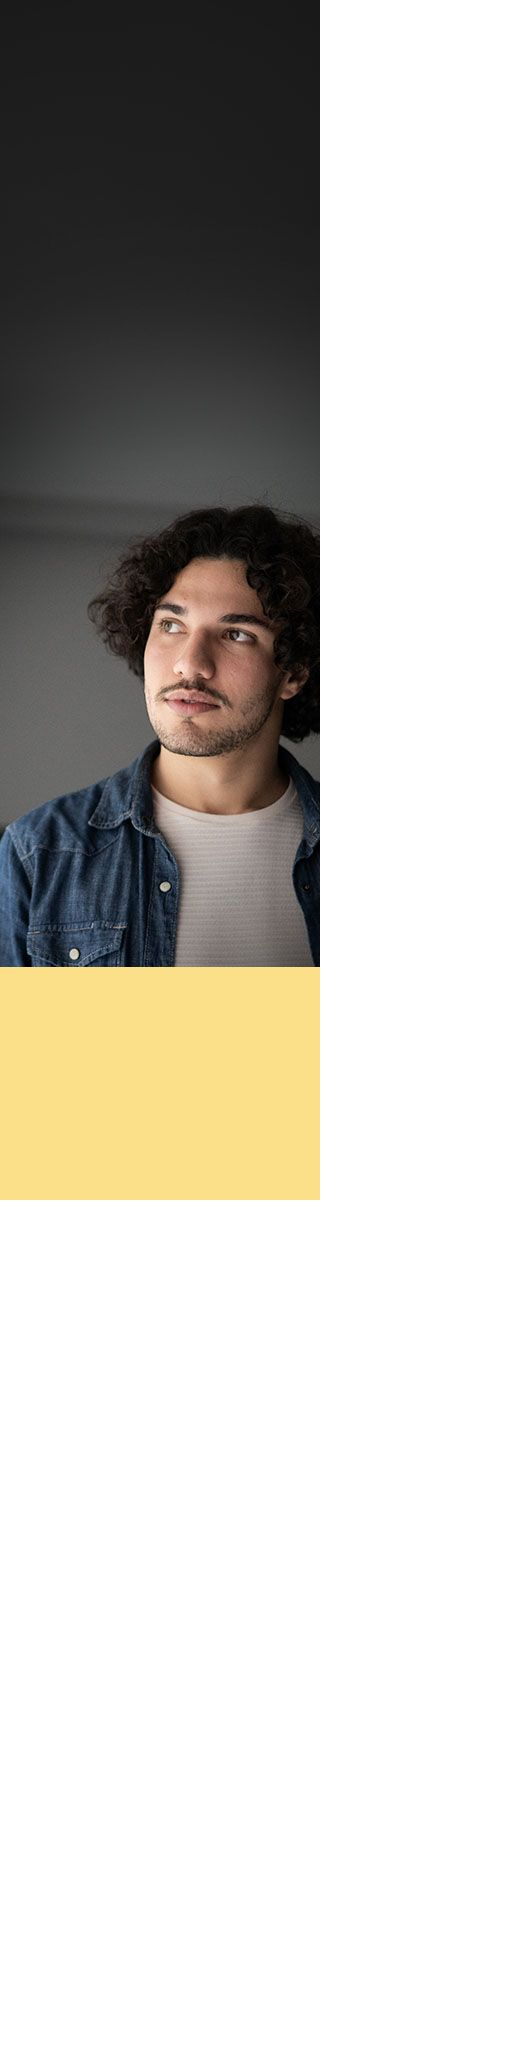
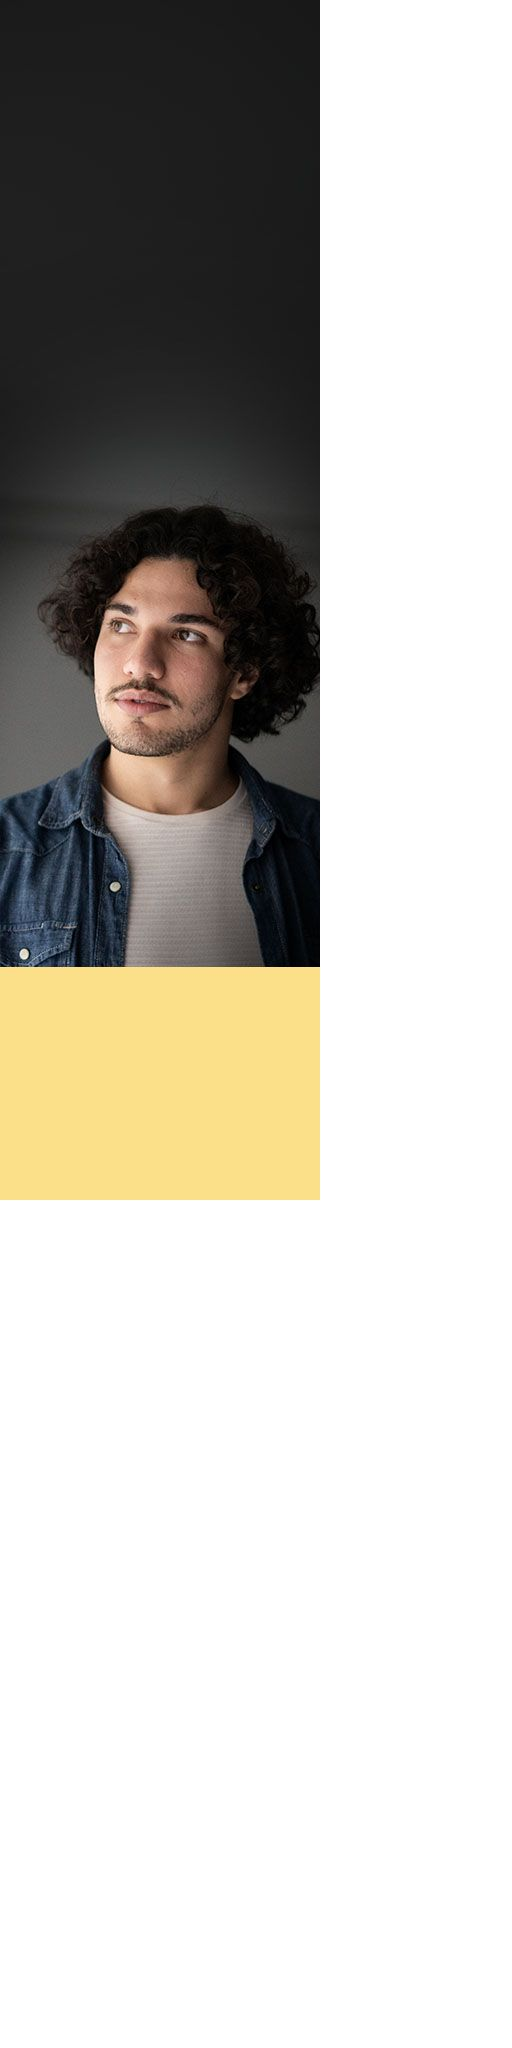
Add files via upload

Changed region(s): [[0.0, 0.1875, 0.625, 0.5]]

diff --git a/lived-spn/300x600/HCA-Lived-spn-300x600.js b/lived-spn/300x600/HCA-Lived-spn-300x600.js
@@ -140,75 +140,75 @@ if (reversed == null) { reversed = false; }
 	// Layer_2
 	this.shape = new cjs.Shape();
 	this.shape.graphics.f("#FFFFFF").s().p("AgGAHIAAgNIANAAIAAANg");
-	this.shape.setTransform(68.6,42.7);
+	this.shape.setTransform(68.6,58.2);
 
 	this.shape_1 = new cjs.Shape();
 	this.shape_1.graphics.f("#FFFFFF").s().p("AgFAvIAAhdIALAAIAABdg");
-	this.shape_1.setTransform(65.65,38.65);
+	this.shape_1.setTransform(65.65,54.15);
 
 	this.shape_2 = new cjs.Shape();
 	this.shape_2.graphics.f("#FFFFFF").s().p("AgOAgQgGgDgDgFQgDgEAAgGQAAgHAEgEQAEgDAIgCQAJgCAOAAIADAAIAAgEQAAgJgDgDQgDgEgIAAQgKAAgMAHIgDgIQAFgEAHgCQAHgCAGAAQANAAAGAGQAGAHAAANIAAAoIgLAAIAAgLQgCAGgGADQgFADgGAAQgGAAgFgCgAgDADQgGABgDACQgDADAAAEQAAAGAEADQAEAEAGAAQAHAAAFgGQAFgFAAgJIAAgEIgCAAIgRABg");
-	this.shape_2.setTransform(60.375,40.075);
+	this.shape_2.setTransform(60.375,55.575);
 
 	this.shape_3 = new cjs.Shape();
 	this.shape_3.graphics.f("#FFFFFF").s().p("AgVAbQgGgHAAgNIAAgnIALAAIAAAnQAAAJAEAEQADAEAIAAQAHAAAGgGQAFgFAAgJIAAgkIALAAIAABAIgLAAIAAgLQgDAGgGADQgFADgGAAQgMAAgGgGg");
-	this.shape_3.setTransform(53.475,40.175);
+	this.shape_3.setTransform(53.475,55.675);
 
 	this.shape_4 = new cjs.Shape();
 	this.shape_4.graphics.f("#FFFFFF").s().p("AgCAlQgGgGAAgLIAAgiIgNAAIAAgIIANAAIAAgUIAJAAIAAAUIAUAAIAAAIIgUAAIAAAhQAAAPAPAAIAGAAIAAAJIgHAAQgMAAgFgGg");
-	this.shape_4.setTransform(47.05,39.175);
+	this.shape_4.setTransform(47.05,54.675);
 
 	this.shape_5 = new cjs.Shape();
 	this.shape_5.graphics.f("#FFFFFF").s().p("AgMAeQgHgEgEgIQgEgHAAgLQAAgJAEgIQAEgHAIgFQAHgEAJAAQAGAAAHACQAGADAEAEIgEAIQgJgIgKAAQgJAAgGAHQgFAGAAALQAAAMAFAHQAGAGAJAAQAKAAAJgHIAEAIQgEAEgHACQgGACgHAAQgJAAgHgEg");
-	this.shape_5.setTransform(41.225,40.075);
+	this.shape_5.setTransform(41.225,55.575);
 
 	this.shape_6 = new cjs.Shape();
 	this.shape_6.graphics.f("#FFFFFF").s().p("AgVAbQgGgHAAgNIAAgnIALAAIAAAnQAAAJAEAEQADAEAIAAQAHAAAGgGQAFgFAAgJIAAgkIALAAIAABAIgLAAIAAgLQgDAGgGADQgFADgGAAQgMAAgGgGg");
-	this.shape_6.setTransform(34.125,40.175);
+	this.shape_6.setTransform(34.125,55.675);
 
 	this.shape_7 = new cjs.Shape();
-	this.shape_7.graphics.f("#FFFFFF").s().p("AgQArQgHgDgDgJQgEgHAAgLQAAgJAEgIQADgHAHgEQAHgEAIgBQAHABAGADQAFADADAHIAAgpIALAAIAABeIgLAAIAAgMQgDAGgFADQgGAEgHAAQgJAAgGgFgAgOgEQgFAGAAALQAAAMAFAHQAGAHAIAAQAKAAAFgHQAFgGAAgMQAAgMgFgGQgFgGgKAAQgIAAgGAGg");
-	this.shape_7.setTransform(26.575,38.7);
+	this.shape_7.graphics.f("#FFFFFF").s().p("AgQAsQgHgFgDgIQgEgHAAgLQAAgKAEgHQADgHAHgEQAHgFAIAAQAHAAAGAEQAFAEADAGIAAgpIALAAIAABeIgLAAIAAgMQgDAGgFAEQgGADgHAAQgJAAgGgEgAgOgEQgFAGAAALQAAAMAFAHQAGAHAIAAQAKAAAFgHQAFgGAAgMQAAgMgFgGQgFgGgKAAQgIAAgGAGg");
+	this.shape_7.setTransform(26.575,54.2);
 
 	this.shape_8 = new cjs.Shape();
 	this.shape_8.graphics.f("#FFFFFF").s().p("AARAiIAAgoQAAgJgDgEQgEgEgHAAQgJAAgFAFQgGAGABAJIAAAlIgMAAIAAhBIAMAAIAAALQACgGAHgDQAFgEAGAAQAZAAAAAaIAAApg");
-	this.shape_8.setTransform(19.35,40.025);
+	this.shape_8.setTransform(19.35,55.525);
 
 	this.shape_9 = new cjs.Shape();
 	this.shape_9.graphics.f("#FFFFFF").s().p("AgPAeQgHgEgEgIQgEgIAAgKQAAgJAEgIQAEgIAHgEQAHgEAIAAQAJAAAIAEQAHAEAEAIQADAIAAAJQAAAKgDAIQgEAIgHAEQgIAEgJAAQgIAAgHgEgAgOgRQgFAGAAALQAAAMAFAHQAFAGAJAAQAKAAAFgGQAFgHAAgMQAAgLgFgGQgFgHgKAAQgIAAgGAHg");
-	this.shape_9.setTransform(12.025,40.075);
+	this.shape_9.setTransform(12.025,55.575);
 
 	this.shape_10 = new cjs.Shape();
 	this.shape_10.graphics.f("#FFFFFF").s().p("AgMAeQgHgEgEgIQgEgHAAgLQAAgJAEgIQAEgHAIgFQAHgEAJAAQAGAAAHACQAGADAEAEIgEAIQgJgIgKAAQgJAAgGAHQgFAGAAALQAAAMAFAHQAGAGAJAAQAKAAAJgHIAEAIQgEAEgHACQgGACgHAAQgJAAgHgEg");
-	this.shape_10.setTransform(5.375,40.075);
+	this.shape_10.setTransform(5.375,55.575);
 
 	this.shape_11 = new cjs.Shape();
-	this.shape_11.graphics.f("#FFFFFF").s().p("AgQArQgHgEgDgHQgEgIAAgKQAAgLAEgGQADgIAHgEQAHgEAIgBQAHABAGADQAFADADAGIAAgoIALAAIAABeIgLAAIAAgMQgDAGgFADQgGAEgHAAQgJAAgGgFgAgOgDQgFAFAAAMQAAAMAFAGQAGAHAIAAQAKAAAFgGQAFgHAAgMQAAgMgFgFQgFgHgKAAQgIAAgGAHg");
-	this.shape_11.setTransform(122.975,23.2);
+	this.shape_11.graphics.f("#FFFFFF").s().p("AgQArQgHgDgDgJQgEgHAAgLQAAgJAEgIQADgHAHgEQAHgEAIgBQAHABAGADQAFADADAHIAAgpIALAAIAABeIgLAAIAAgMQgDAGgFADQgGAEgHAAQgJAAgGgFgAgOgEQgFAGAAALQAAAMAFAHQAGAHAIAAQAKAAAFgHQAFgGAAgMQAAgMgFgGQgFgGgKAAQgIAAgGAGg");
+	this.shape_11.setTransform(46.775,38.7);
 
 	this.shape_12 = new cjs.Shape();
 	this.shape_12.graphics.f("#FFFFFF").s().p("AgVAbQgGgHAAgNIAAgnIALAAIAAAnQAAAJAEAEQADAEAIAAQAHAAAGgGQAFgFAAgJIAAgkIALAAIAABAIgLAAIAAgLQgDAGgGADQgFADgGAAQgMAAgGgGg");
-	this.shape_12.setTransform(115.675,24.675);
+	this.shape_12.setTransform(39.475,40.175);
 
 	this.shape_13 = new cjs.Shape();
-	this.shape_13.graphics.f("#FFFFFF").s().p("AgEAvIAAheIAKAAIAABeg");
-	this.shape_13.setTransform(110.5,23.15);
+	this.shape_13.graphics.f("#FFFFFF").s().p("AgEAvIAAhdIAJAAIAABdg");
+	this.shape_13.setTransform(34.3,38.65);
 
 	this.shape_14 = new cjs.Shape();
 	this.shape_14.graphics.f("#FFFFFF").s().p("AgOAgQgGgDgDgFQgDgEAAgGQAAgHAEgEQAEgDAIgCQAJgCAOAAIADAAIAAgEQAAgJgDgDQgDgEgIAAQgKAAgMAHIgDgIQAFgEAHgCQAHgCAGAAQANAAAGAGQAGAHAAANIAAAoIgLAAIAAgLQgCAGgGADQgFADgGAAQgGAAgFgCgAgDADQgGABgDACQgDADAAAEQAAAGAEADQAEAEAGAAQAHAAAFgGQAFgFAAgJIAAgEIgCAAIgRABg");
-	this.shape_14.setTransform(105.375,24.575);
+	this.shape_14.setTransform(29.175,40.075);
 
 	this.shape_15 = new cjs.Shape();
 	this.shape_15.graphics.f("#FFFFFF").s().p("AgZAaIADgIQAGAEAFACQAGABAGAAQAHAAAEgCQAEgDAAgEQAAgEgDgCQgDgDgGgBIgKgDQgIgCgEgDQgFgFAAgHQAAgIAHgGQAHgFAKAAQAHAAAGACQAHACAEAFIgEAHQgJgHgLAAQgFAAgEACQgEADAAAFQAAAEACACQACACAGACIAKACQAJACAFAEQAEAEAAAHQAAAJgHAFQgHAFgMAAQgPAAgKgIg");
-	this.shape_15.setTransform(98.975,24.575);
+	this.shape_15.setTransform(22.775,40.075);
 
 	this.shape_16 = new cjs.Shape();
-	this.shape_16.graphics.f("#FFFFFF").s().p("AARAiIAAgoQAAgJgDgEQgEgEgIAAQgHAAgGAFQgFAGgBAJIAAAlIgKAAIAAhBIAKAAIAAALQADgGAGgDQAHgEAGAAQAXAAAAAaIAAApg");
-	this.shape_16.setTransform(89.25,24.525);
+	this.shape_16.graphics.f("#FFFFFF").s().p("AARAiIAAgoQAAgJgDgEQgEgEgHAAQgJAAgFAFQgGAGABAJIAAAlIgMAAIAAhBIAMAAIAAALQACgGAHgDQAFgEAGAAQAZAAAAAaIAAApg");
+	this.shape_16.setTransform(13.05,40.025);
 
 	this.shape_17 = new cjs.Shape();
-	this.shape_17.graphics.f("#FFFFFF").s().p("AgTAZQgJgJAAgQQAAgJADgIQAFgHAGgFQAHgEAJAAQANAAAHAIQAIAJgBAPIAAADIguAAQAAAMAGAFQAFAGAKAAQALAAAKgIIADAIQgEAEgGADQgHACgHAAQgPAAgIgJgAAUgEQAAgKgFgFQgFgGgIAAQgIAAgFAGQgFAFgBAKIAlAAIAAAAg");
-	this.shape_17.setTransform(81.75,24.575);
+	this.shape_17.graphics.f("#FFFFFF").s().p("AgTAZQgKgJABgQQAAgJADgIQAFgHAHgFQAHgEAHAAQAOAAAIAIQAGAJAAAPIAAADIgvAAQABAMAGAFQAGAGAJAAQAMAAAJgIIADAIQgDAEgIADQgGACgHAAQgOAAgJgJgAAUgEQAAgKgFgFQgEgGgJAAQgIAAgFAGQgFAFgBAKIAlAAIAAAAg");
+	this.shape_17.setTransform(5.55,40.075);
 
 	this.shape_18 = new cjs.Shape();
 	this.shape_18.graphics.f("#FFFFFF").s().p("AgZAaIADgIQAGAEAFACQAGABAGAAQAHAAAEgCQAEgDAAgEQAAgEgDgCQgDgDgGgBIgKgDQgIgCgEgDQgFgFAAgHQAAgIAHgGQAHgFAKAAQAHAAAGACQAHACAEAFIgEAHQgJgHgLAAQgFAAgEACQgEADAAAFQAAAEACACQACACAGACIAKACQAJACAFAEQAEAEAAAHQAAAJgHAFQgHAFgMAAQgPAAgKgIg");
@@ -330,7 +330,7 @@ if (reversed == null) { reversed = false; }
 
 	this._renderFirstFrame();
 
-}).prototype = getMCSymbolPrototype(lib.SUBHEAD, new cjs.Rectangle(0,0,152.1,48.5), null);
+}).prototype = getMCSymbolPrototype(lib.SUBHEAD, new cjs.Rectangle(0,0,114.4,64), null);
 
 
 (lib.HEAD2 = function(mode,startPosition,loop,reversed) {

diff --git a/lived-spn/300x250/HCA-Lived-spn-300x250.js b/lived-spn/300x250/HCA-Lived-spn-300x250.js
@@ -3,7 +3,7 @@
 var p; // shortcut to reference prototypes
 var lib={};var ss={};var img={};
 lib.ssMetadata = [
-		{name:"HCA_Lived_spn_300x250_atlas_1", frames: [[602,138,239,165],[602,305,304,97],[602,0,320,136],[602,404,360,48],[602,454,327,42],[0,0,600,500]]}
+		{name:"HCA_Lived_spn_300x250_atlas_1", frames: [[602,138,239,165],[602,305,230,128],[602,0,320,136],[602,435,360,48],[602,485,327,42],[0,0,600,500]]}
 ];
 
 
@@ -27,35 +27,35 @@ lib.ssMetadata = [
 
 
 
-(lib.CachedBmp_15 = function() {
+(lib.CachedBmp_10 = function() {
 	this.initialize(ss["HCA_Lived_spn_300x250_atlas_1"]);
 	this.gotoAndStop(0);
 }).prototype = p = new cjs.Sprite();
 
 
 
-(lib.CachedBmp_14 = function() {
+(lib.CachedBmp_9 = function() {
 	this.initialize(ss["HCA_Lived_spn_300x250_atlas_1"]);
 	this.gotoAndStop(1);
 }).prototype = p = new cjs.Sprite();
 
 
 
-(lib.CachedBmp_13 = function() {
+(lib.CachedBmp_8 = function() {
 	this.initialize(ss["HCA_Lived_spn_300x250_atlas_1"]);
 	this.gotoAndStop(2);
 }).prototype = p = new cjs.Sprite();
 
 
 
-(lib.CachedBmp_12 = function() {
+(lib.CachedBmp_7 = function() {
 	this.initialize(ss["HCA_Lived_spn_300x250_atlas_1"]);
 	this.gotoAndStop(3);
 }).prototype = p = new cjs.Sprite();
 
 
 
-(lib.CachedBmp_11 = function() {
+(lib.CachedBmp_6 = function() {
 	this.initialize(ss["HCA_Lived_spn_300x250_atlas_1"]);
 	this.gotoAndStop(4);
 }).prototype = p = new cjs.Sprite();
@@ -97,7 +97,7 @@ if (reversed == null) { reversed = false; }
 	cjs.MovieClip.apply(this,[props]);
 
 	// SYP_logo_RGB_bold.svg
-	this.instance = new lib.CachedBmp_15();
+	this.instance = new lib.CachedBmp_10();
 	this.instance.setTransform(0,0,0.5,0.5);
 
 	this.timeline.addTween(cjs.Tween.get(this.instance).wait(1));
@@ -120,14 +120,14 @@ if (reversed == null) { reversed = false; }
 	cjs.MovieClip.apply(this,[props]);
 
 	// Layer_2
-	this.instance = new lib.CachedBmp_14();
+	this.instance = new lib.CachedBmp_9();
 	this.instance.setTransform(0,0,0.5,0.5);
 
 	this.timeline.addTween(cjs.Tween.get(this.instance).wait(1));
 
 	this._renderFirstFrame();
 
-}).prototype = getMCSymbolPrototype(lib.SUBHEAD, new cjs.Rectangle(0,0,152,48.5), null);
+}).prototype = getMCSymbolPrototype(lib.SUBHEAD, new cjs.Rectangle(0,0,115,64), null);
 
 
 (lib.HEAD2 = function(mode,startPosition,loop,reversed) {
@@ -142,7 +142,7 @@ if (reversed == null) { reversed = false; }
 	cjs.MovieClip.apply(this,[props]);
 
 	// Layer_2
-	this.instance = new lib.CachedBmp_13();
+	this.instance = new lib.CachedBmp_8();
 	this.instance.setTransform(0,0,0.5,0.5);
 
 	this.timeline.addTween(cjs.Tween.get(this.instance).wait(1));
@@ -164,7 +164,7 @@ if (reversed == null) { reversed = false; }
 	cjs.MovieClip.apply(this,[props]);
 
 	// Layer_2
-	this.instance = new lib.CachedBmp_12();
+	this.instance = new lib.CachedBmp_7();
 	this.instance.setTransform(0,0,0.5,0.5);
 
 	this.timeline.addTween(cjs.Tween.get(this.instance).wait(1));
@@ -186,7 +186,7 @@ if (reversed == null) { reversed = false; }
 	cjs.MovieClip.apply(this,[props]);
 
 	// type
-	this.instance = new lib.CachedBmp_11();
+	this.instance = new lib.CachedBmp_6();
 	this.instance.setTransform(-45.15,-9.6,0.4167,0.4167);
 
 	this.timeline.addTween(cjs.Tween.get(this.instance).wait(1));
